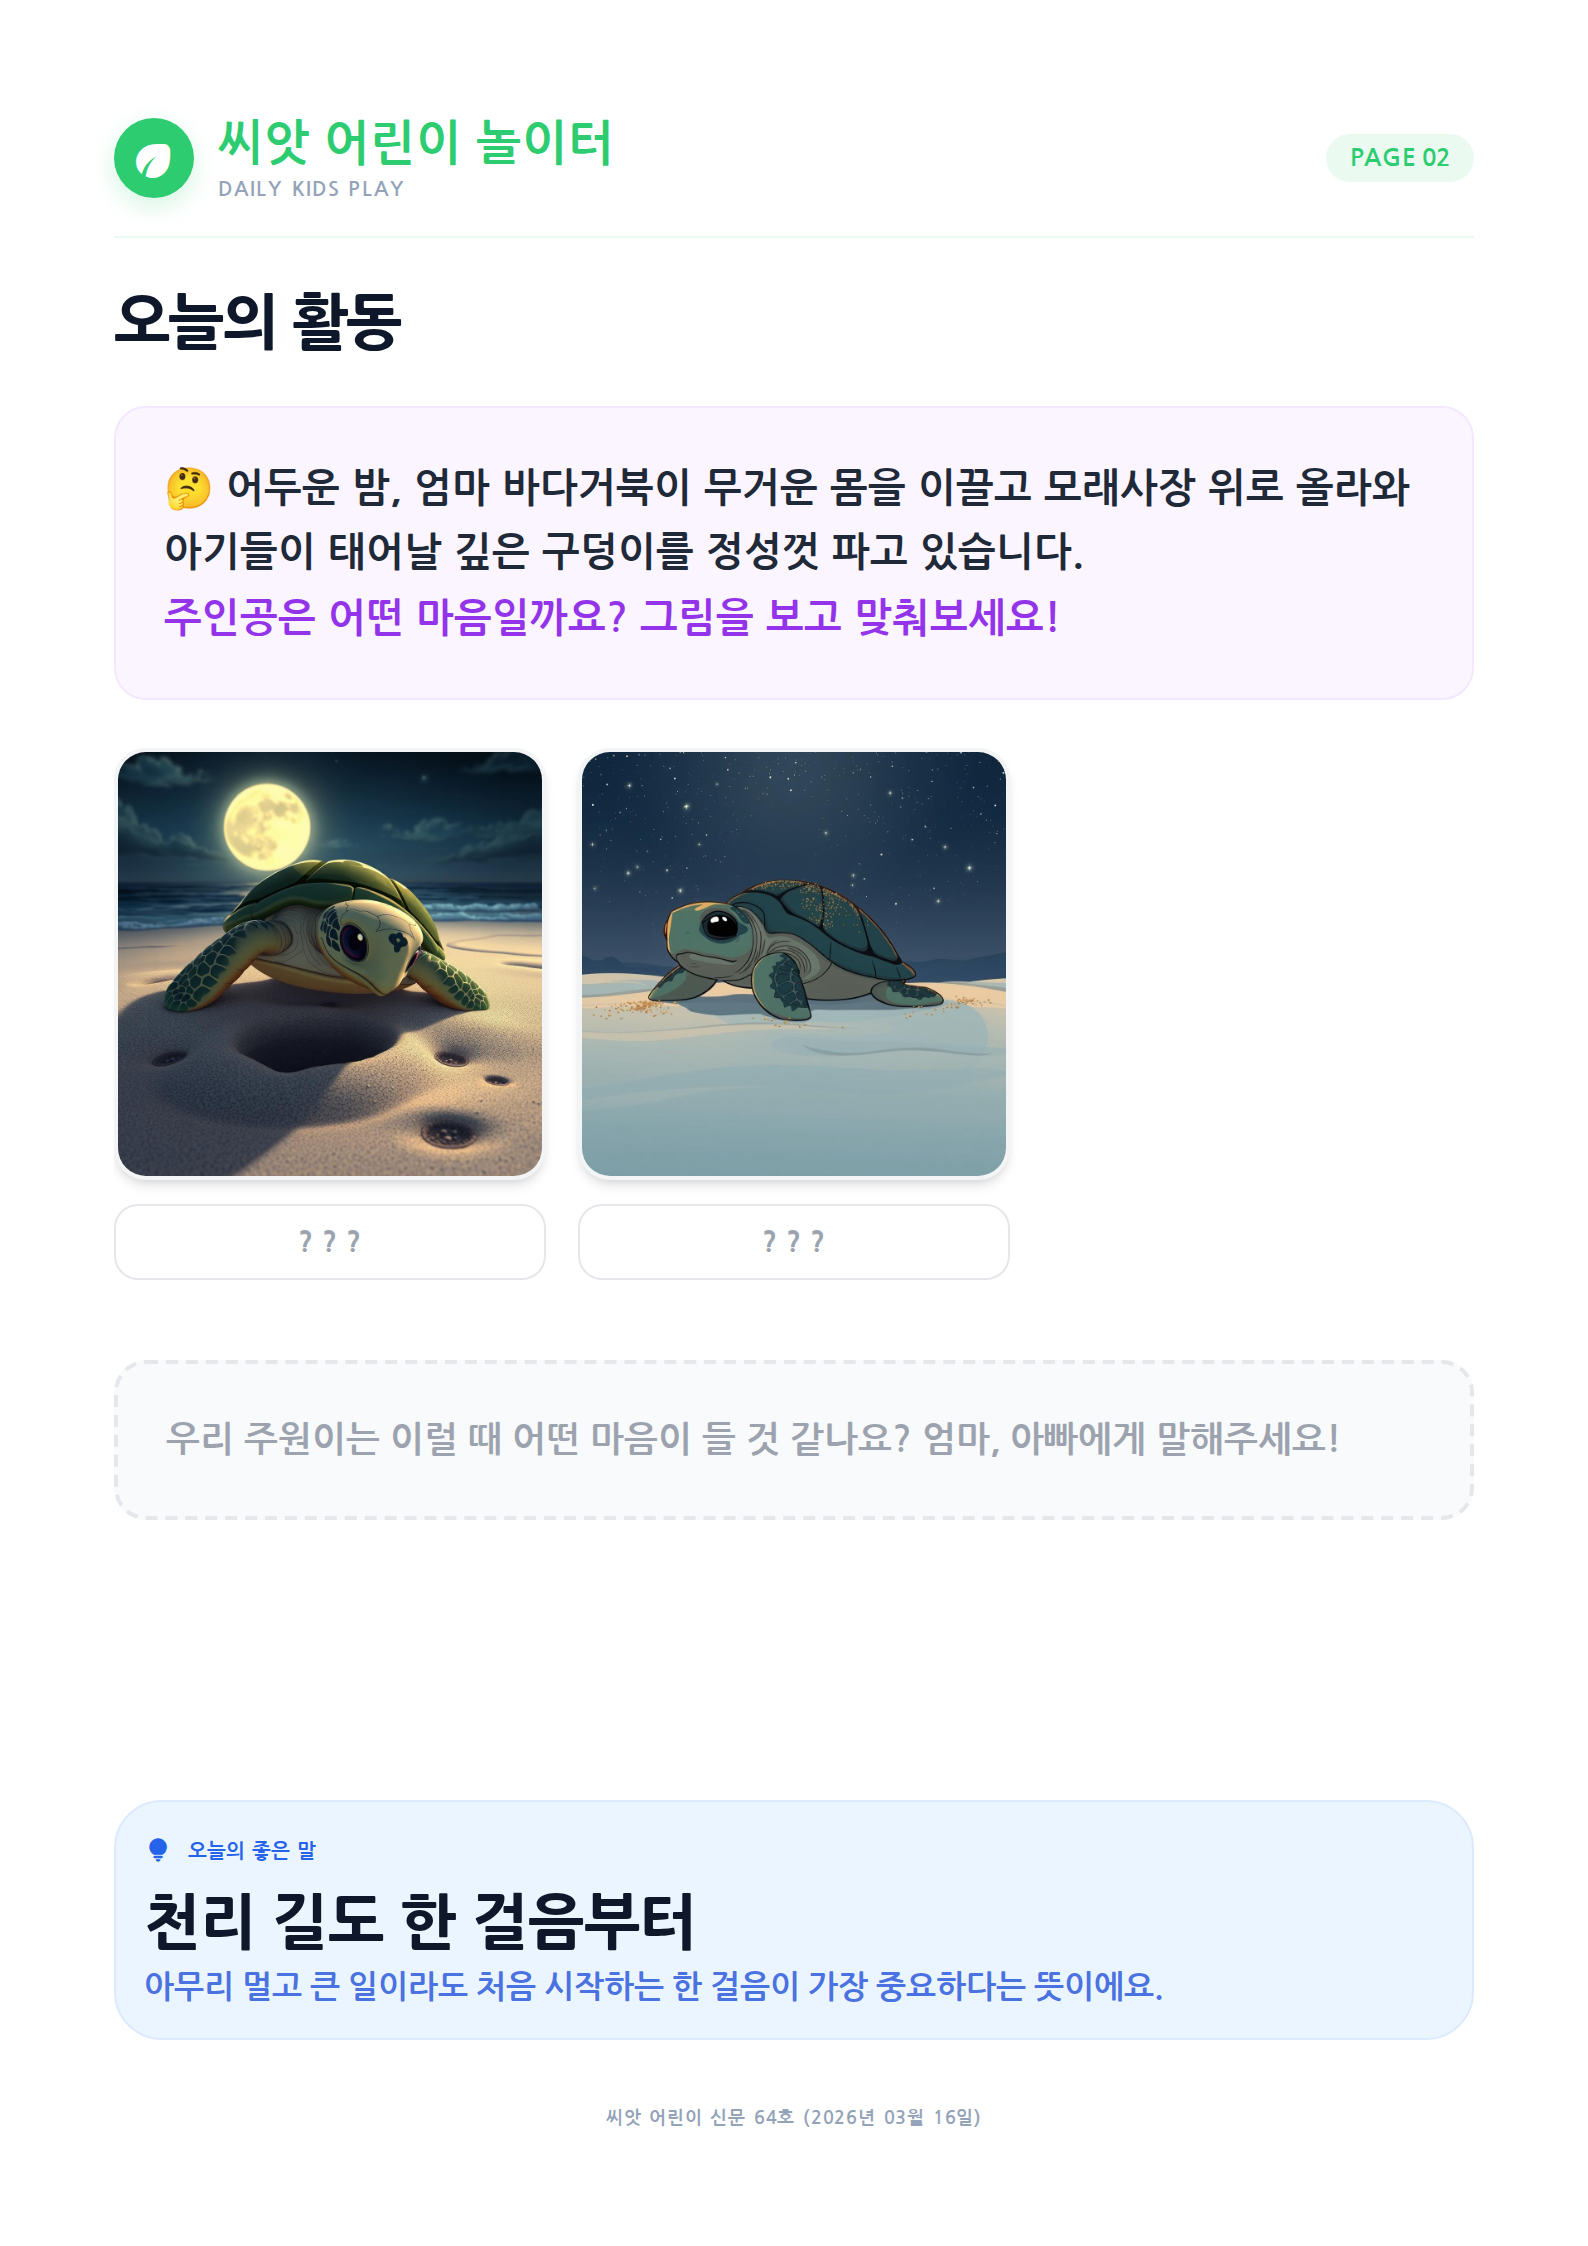
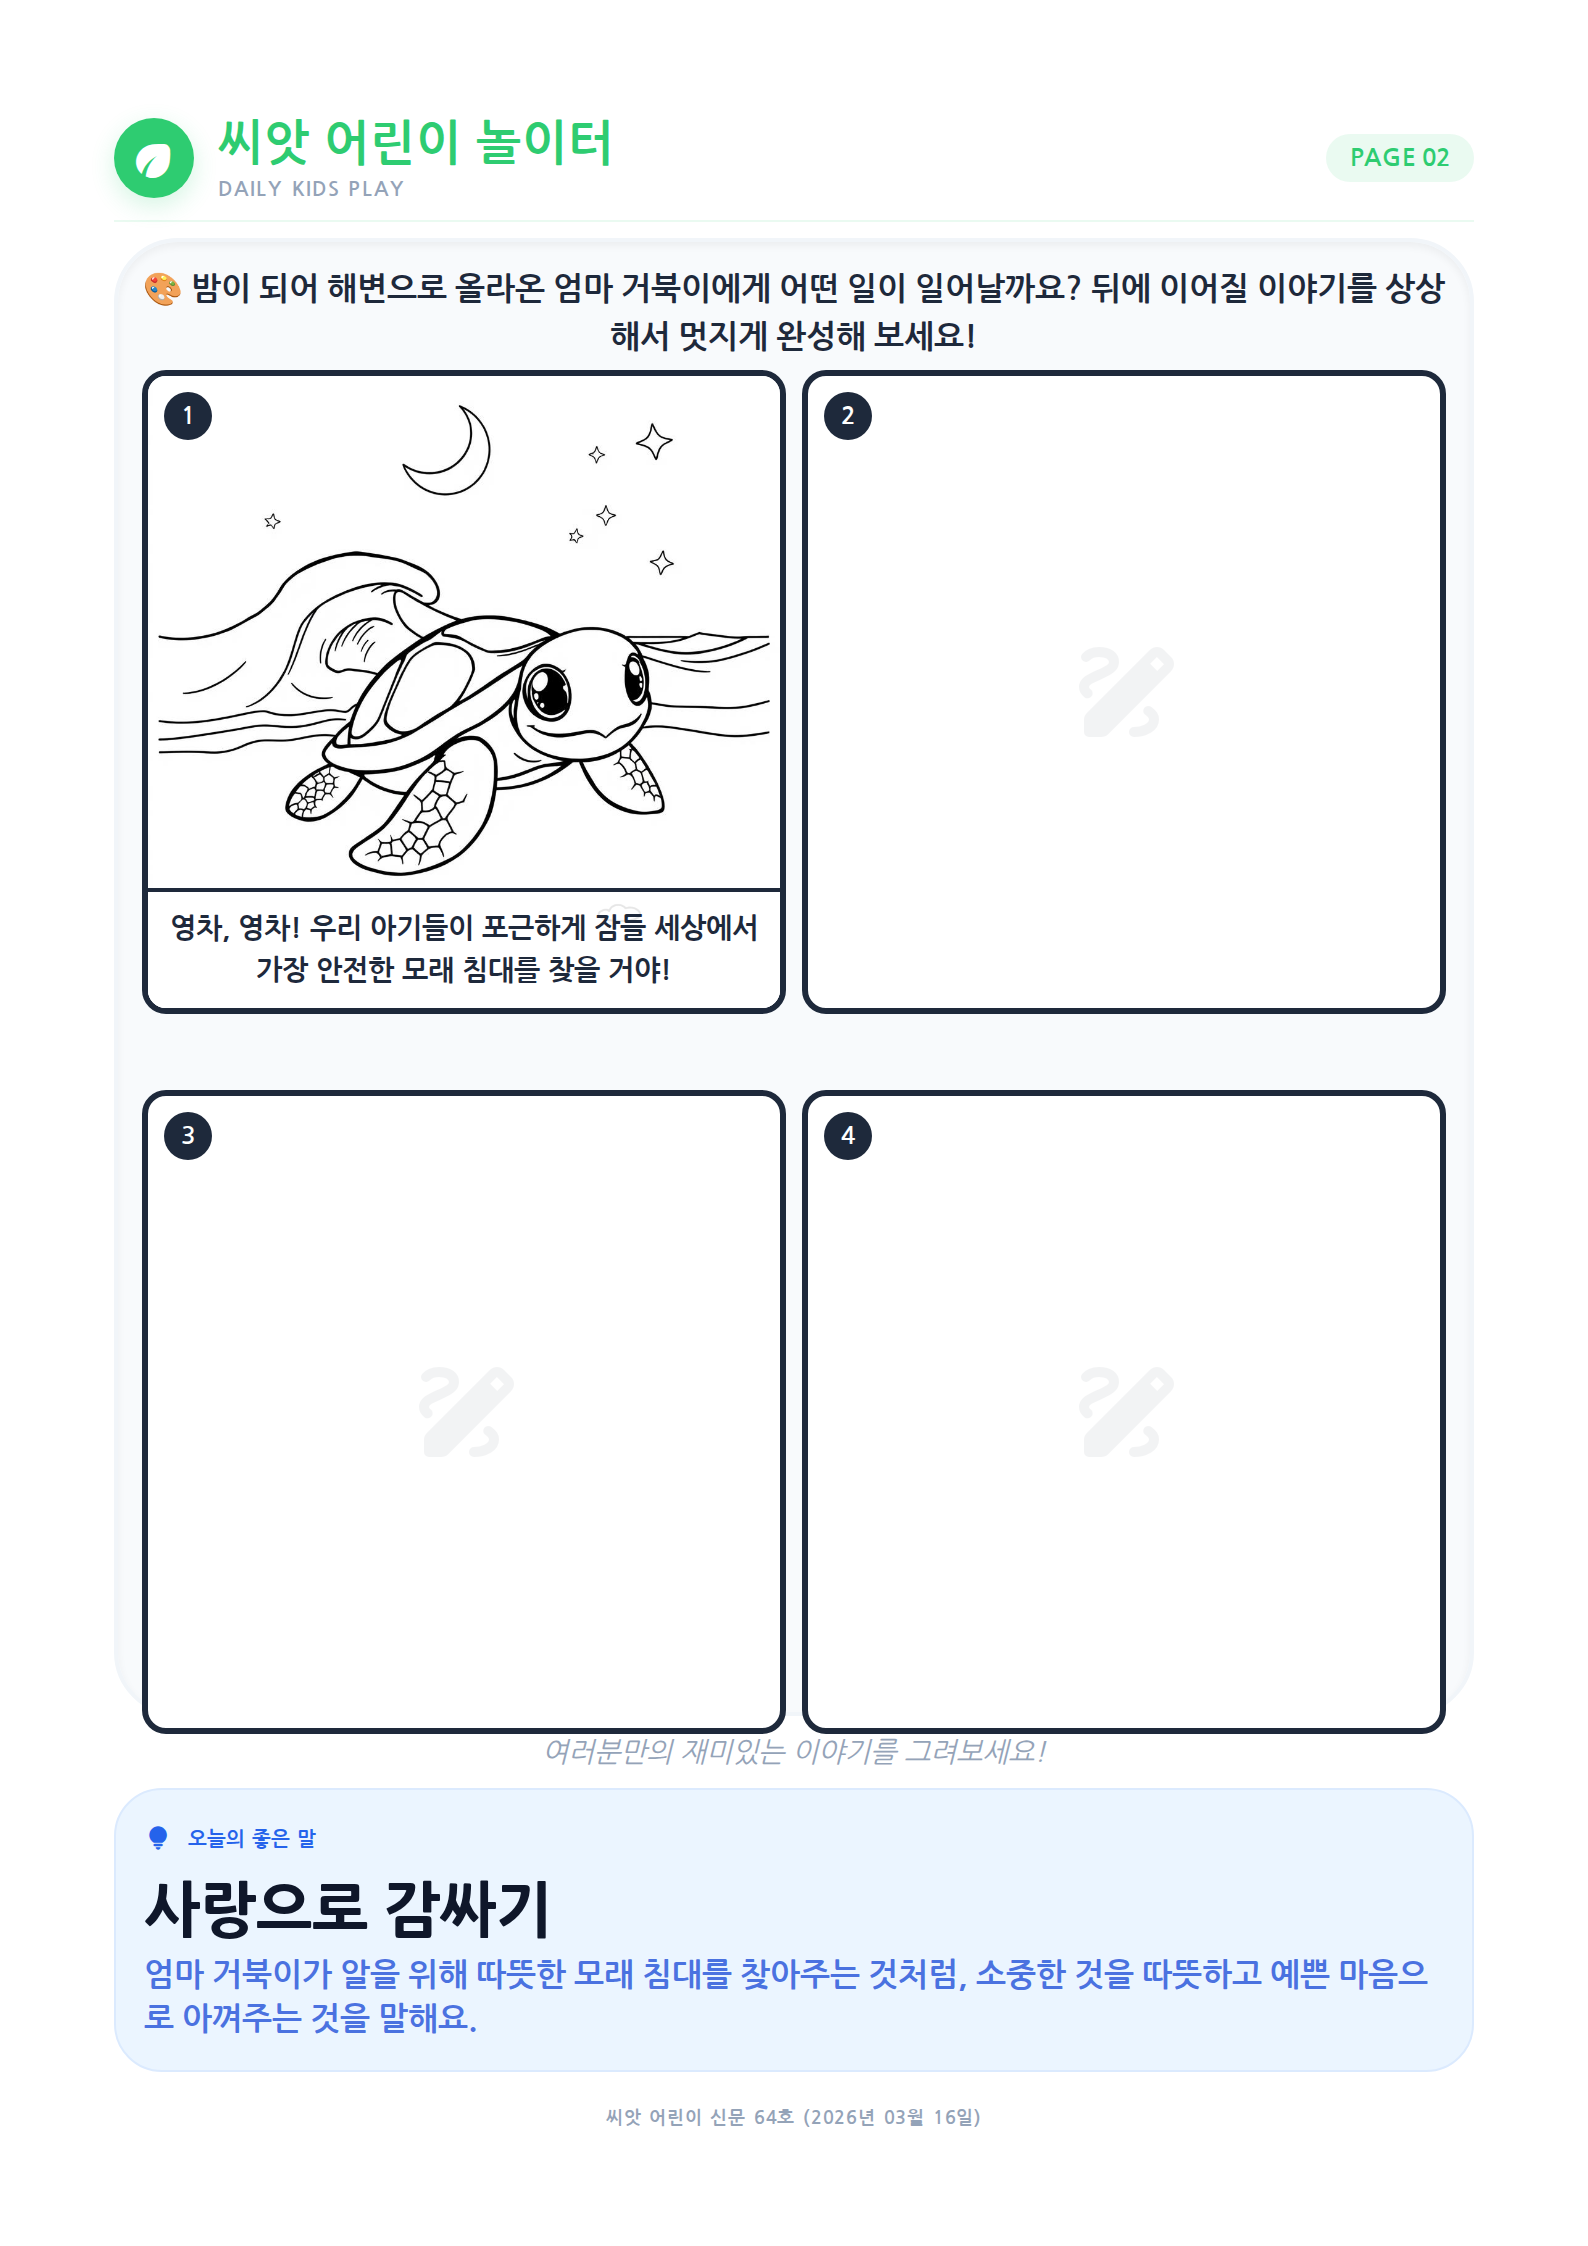
feat: 새 기사 추가 (2026-03-15)

diff --git a/kidsnews/2026-03-16/page2.html b/kidsnews/2026-03-16/page2.html
@@ -180,8 +180,8 @@ body {
 </head>
 
 <body class="bg-white flex justify-center antialiased">
-    <div class="paper flex flex-col gap-6">
-        <header class="flex items-center justify-between border-b border-primary/10 pb-4">
+    <div class="paper flex flex-col gap-2">
+        <header class="flex items-center justify-between border-b border-primary/10 pb-2">
             <div class="flex items-center gap-3">
                 <div class="header-eco-icon">
                     <span class="material-symbols-rounded">eco</span>
@@ -199,42 +199,50 @@ body {
         </header>
 
         
-        <h2 class="text-3xl font-extrabold text-slate-900 tracking-tight">오늘의 활동</h2>
-        
 
         <main class="flex-1 overflow-hidden">
-            <div class="flex flex-col gap-6">
-    <div class="bg-purple-50 p-6 rounded-2xl border border-purple-100">
-        <p class="text-xl font-bold text-gray-800 leading-relaxed">
-            🤔 어두운 밤, 엄마 바다거북이 무거운 몸을 이끌고 모래사장 위로 올라와 아기들이 태어날 깊은 구덩이를 정성껏 파고 있습니다. <br>
-            <span class="text-purple-600">주인공은 어떤 마음일까요? 그림을 보고 맞춰보세요!</span>
-        </p>
-    </div>
+            <div class="flex flex-col gap-2 h-full">
+    <div class="bg-slate-50 p-3 rounded-[32px] border-2 border-slate-100 shadow-inner flex-1">
+        <p class="font-bold text-slate-800 mb-1 text-center">🎨 밤이 되어 해변으로 올라온 엄마 거북이에게 어떤 일이 일어날까요? 뒤에 이어질 이야기를 상상해서 멋지게 완성해 보세요!</p>
 
-    <div class="grid grid-cols-3 gap-4">
-        
-        <div class="flex flex-col gap-3">
-            <div class="aspect-square bg-white rounded-2xl shadow-md border-2 border-gray-100 overflow-hidden">
-                <img src="emotion_0.png" class="w-full h-full object-cover">
+        <div class="cartoon-grid">
+            <!-- 1st Cut: Pre-filled with AI image and dialogue -->
+            <div class="cartoon-panel">
+                <div class="cartoon-number">1</div>
+                <img src="activity_image.png" class="w-full h-full object-cover" alt="Cartoon Story Start">
+                <div class="cartoon-dialogue">
+                    영차, 영차! 우리 아기들이 포근하게 잠들 세상에서 가장 안전한 모래 침대를 찾을 거야!
+                </div>
             </div>
-            <div class="bg-white p-2 rounded-xl text-center border border-gray-200">
-                <p class="text-sm font-black text-gray-400">? ? ?</p>
+
+            <!-- 2nd Cut: Empty for child to draw -->
+            <div class="cartoon-panel">
+                <div class="cartoon-number">2</div>
+                <div class="w-full h-full flex items-center justify-center opacity-5">
+                    <span class="material-symbols-rounded text-6xl">draw</span>
+                </div>
+            </div>
+
+            <!-- 3rd Cut: Empty for child to draw -->
+            <div class="cartoon-panel">
+                <div class="cartoon-number">3</div>
+                <div class="w-full h-full flex items-center justify-center opacity-5">
+                    <span class="material-symbols-rounded text-6xl">draw</span>
+                </div>
+            </div>
+
+            <!-- 4th Cut: Empty for child to draw -->
+            <div class="cartoon-panel">
+                <div class="cartoon-number">4</div>
+                <div class="w-full h-full flex items-center justify-center opacity-5">
+                    <span class="material-symbols-rounded text-6xl">draw</span>
+                </div>
             </div>
         </div>
-        
-        <div class="flex flex-col gap-3">
-            <div class="aspect-square bg-white rounded-2xl shadow-md border-2 border-gray-100 overflow-hidden">
-                <img src="emotion_1.png" class="w-full h-full object-cover">
-            </div>
-            <div class="bg-white p-2 rounded-xl text-center border border-gray-200">
-                <p class="text-sm font-black text-gray-400">? ? ?</p>
-            </div>
-        </div>
-        
     </div>
 
-    <div class="mt-4 p-6 bg-gray-50 rounded-2xl border-2 border-dashed border-gray-200">
-        <p class="text-lg font-bold text-gray-400">우리 주원이는 이럴 때 어떤 마음이 들 것 같나요? 엄마, 아빠에게 말해주세요!</p>
+    <div class="text-center italic text-slate-400 text-sm">
+        여러분만의 재미있는 이야기를 그려보세요!
     </div>
 </div>
         </main>
@@ -246,8 +254,8 @@ body {
                     <span class="text-[10px] font-bold tracking-wider uppercase">오늘의 좋은 말</span>
                 </div>
                 <div class="flex flex-col gap-1">
-                    <p class="text-3xl font-black text-slate-900">천리 길도 한 걸음부터</p>
-                    <p class="text-base font-bold text-blue-700/80 leading-snug">아무리 멀고 큰 일이라도 처음 시작하는 한 걸음이 가장 중요하다는 뜻이에요.</p>
+                    <p class="text-3xl font-black text-slate-900">사랑으로 감싸기</p>
+                    <p class="text-base font-bold text-blue-700/80 leading-snug">엄마 거북이가 알을 위해 따뜻한 모래 침대를 찾아주는 것처럼, 소중한 것을 따뜻하고 예쁜 마음으로 아껴주는 것을 말해요.</p>
                 </div>
             </div>
         </footer>
